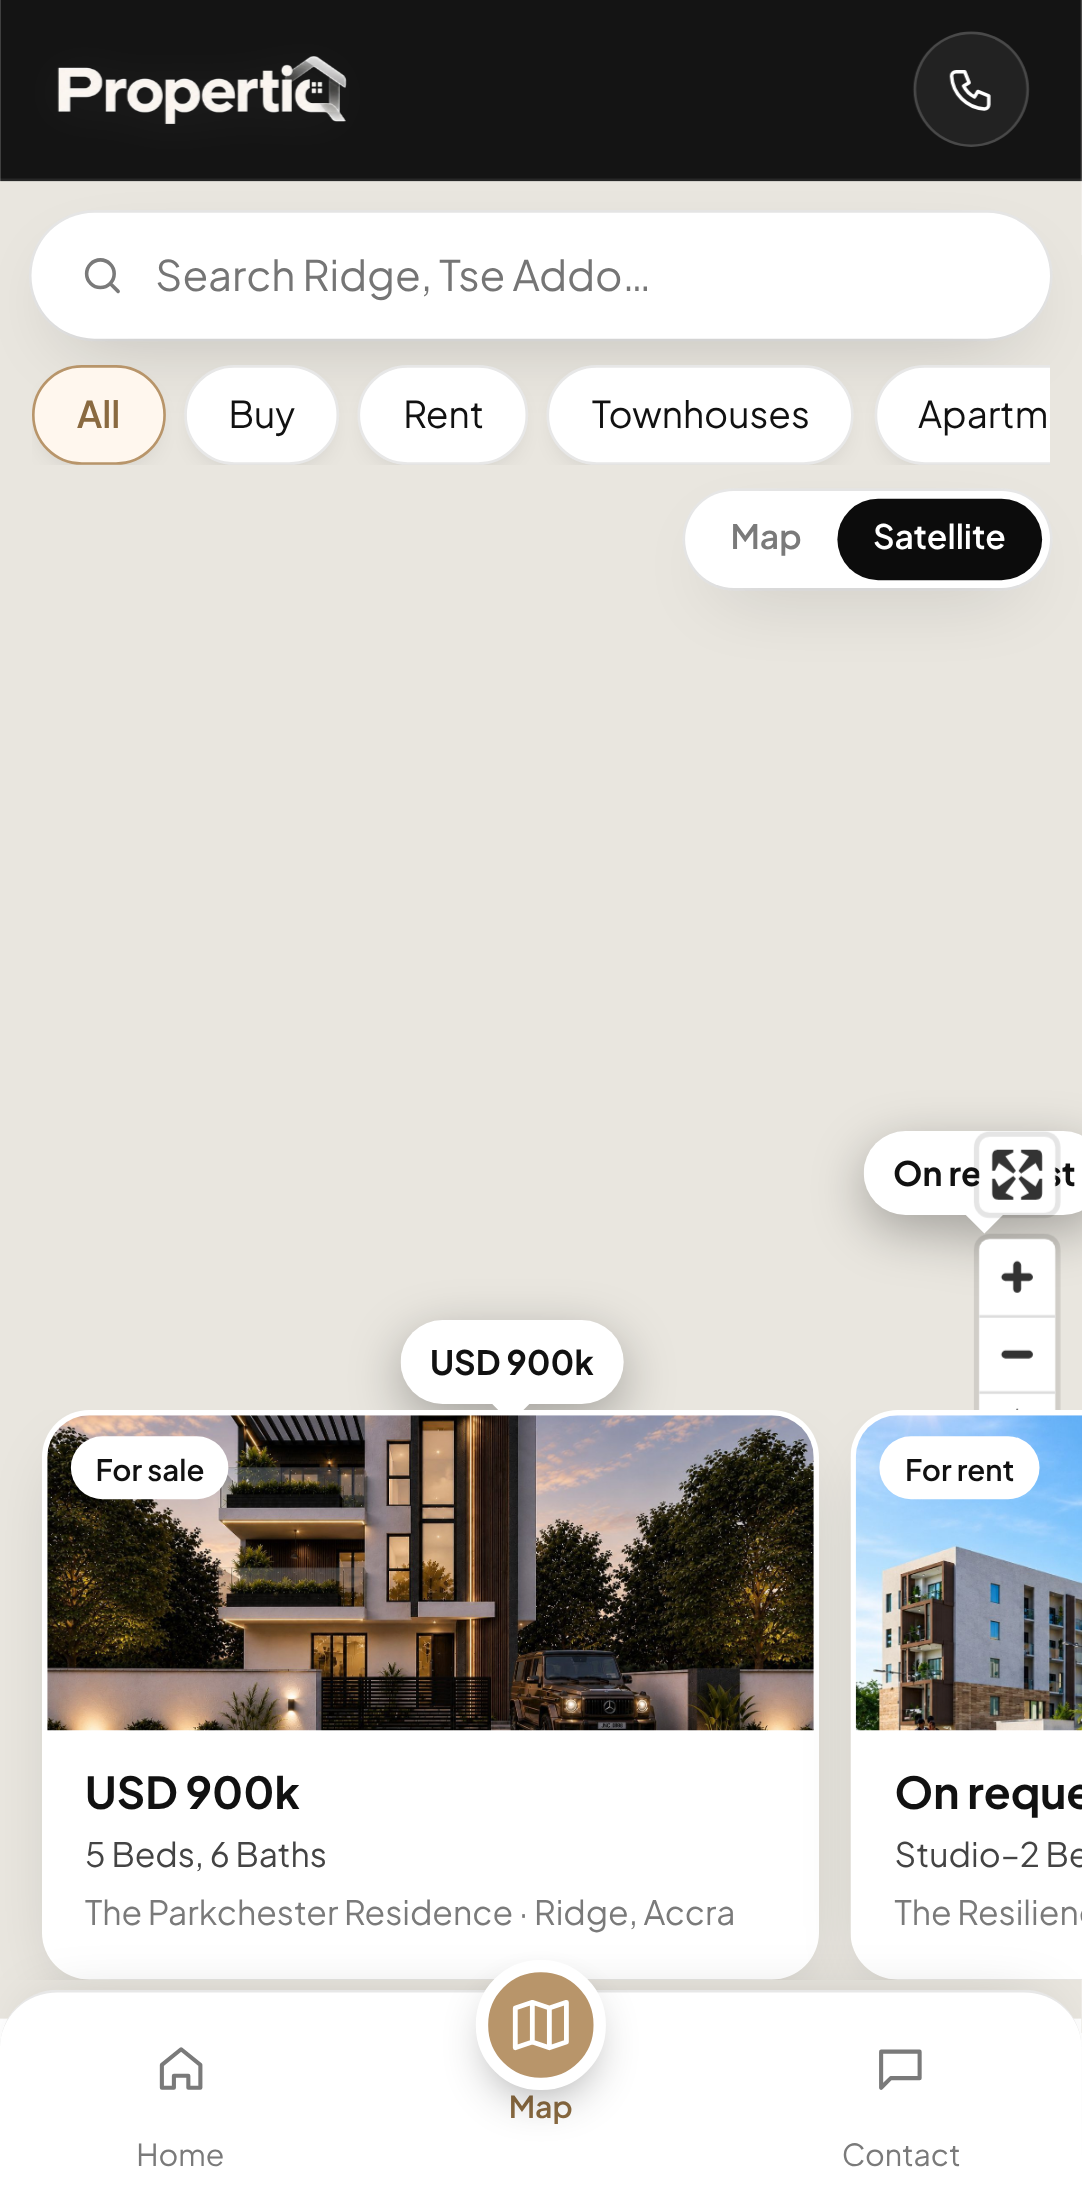
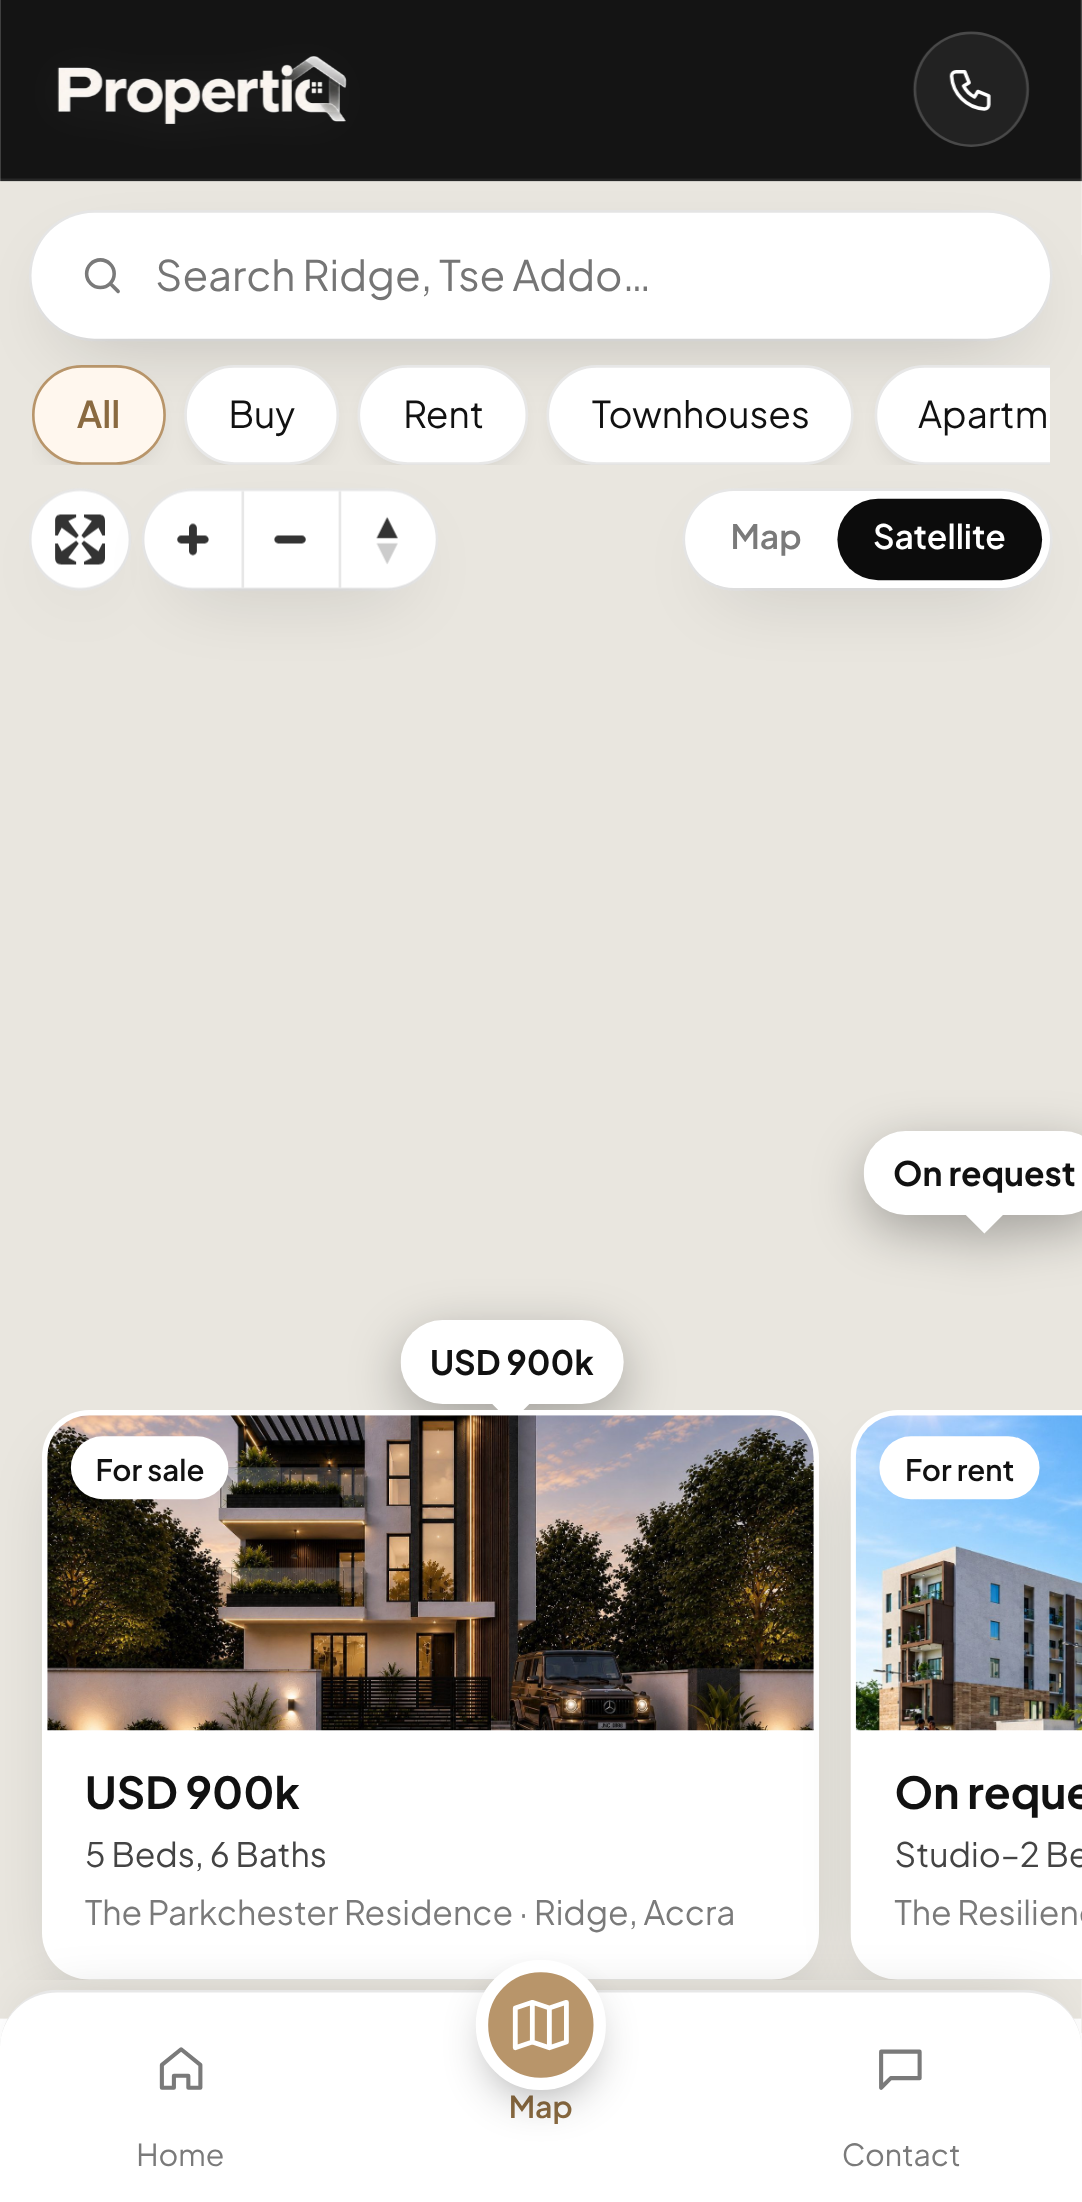
Map page: move the zoom buttons off the map on phones
On phones the zoom, compass and full-screen buttons were stacked on the
right over the map, covering the Tse Addo price tag. They now sit in a
row on the left, level with the Map / Satellite switch, with larger
touch targets, and the opening view leaves room below them.

Claude-Session: https://claude.ai/code/session_01X1TVBwgR2oskqwBPGkRMfX

Changed region(s): [[0.0305, 0.2162, 0.3965, 0.2779], [0.8845, 0.4941, 0.976, 0.6485]]

diff --git a/site/css/style.css b/site/css/style.css
@@ -1530,8 +1530,32 @@ body.app {
   font-size: 0.68rem;
   color: var(--ink-2);
 }
+/* Phones: the zoom, compass and full-screen buttons sit in a row on the left, level with the
+   Map / Satellite switch, so they never cover a price tag or the cards. */
 .mapx .maplibregl-ctrl-bottom-right {
-  bottom: 12.5rem;
+  top: 7.375rem;
+  bottom: auto;
+  left: 0.75rem;
+  right: auto;
+  display: flex;
+  gap: 0.4rem;
+}
+.mapx .maplibregl-ctrl-bottom-right .maplibregl-ctrl {
+  margin: 0;
+}
+.mapx .maplibregl-ctrl-bottom-right .maplibregl-ctrl-group {
+  display: flex;
+  border-radius: 999px;
+  overflow: hidden;
+  box-shadow: var(--shadow), 0 0 0 1px var(--line);
+}
+.mapx .maplibregl-ctrl-bottom-right .maplibregl-ctrl-group button {
+  width: 2.3rem;
+  height: 2.3rem;
+}
+.mapx .maplibregl-ctrl-bottom-right .maplibregl-ctrl-group button + button {
+  border-top: 0;
+  border-left: 1px solid var(--line);
 }
 /* Price-tag pins */
 .tagpin {
@@ -1785,7 +1809,9 @@ body.app {
     right: auto;
   }
   .mapx .maplibregl-ctrl-bottom-right {
+    top: auto;
     bottom: 0.5rem;
+    left: auto;
     right: 21.5rem;
   }
 }

diff --git a/site/js/pages/map.js b/site/js/pages/map.js
@@ -114,7 +114,7 @@ function fitAll() {
   const b = new gl.LngLatBounds();
   rows.forEach((p) => b.extend(m.lngLat(p)));
   const wide = matchMedia("(min-width: 900px)").matches;
-  map.fitBounds(b, { padding: wide ? { top: 140, bottom: 120, left: 140, right: 140 } : { top: 170, bottom: 230, left: 50, right: 50 }, maxZoom: 13.8, pitch: 48, bearing: -15, duration: 2600 });
+  map.fitBounds(b, { padding: wide ? { top: 140, bottom: 120, left: 140, right: 140 } : { top: 210, bottom: 250, left: 60, right: 60 }, maxZoom: 13.8, pitch: 48, bearing: -15, duration: 2600 });
 }
 map.once("load", fitAll);
 
